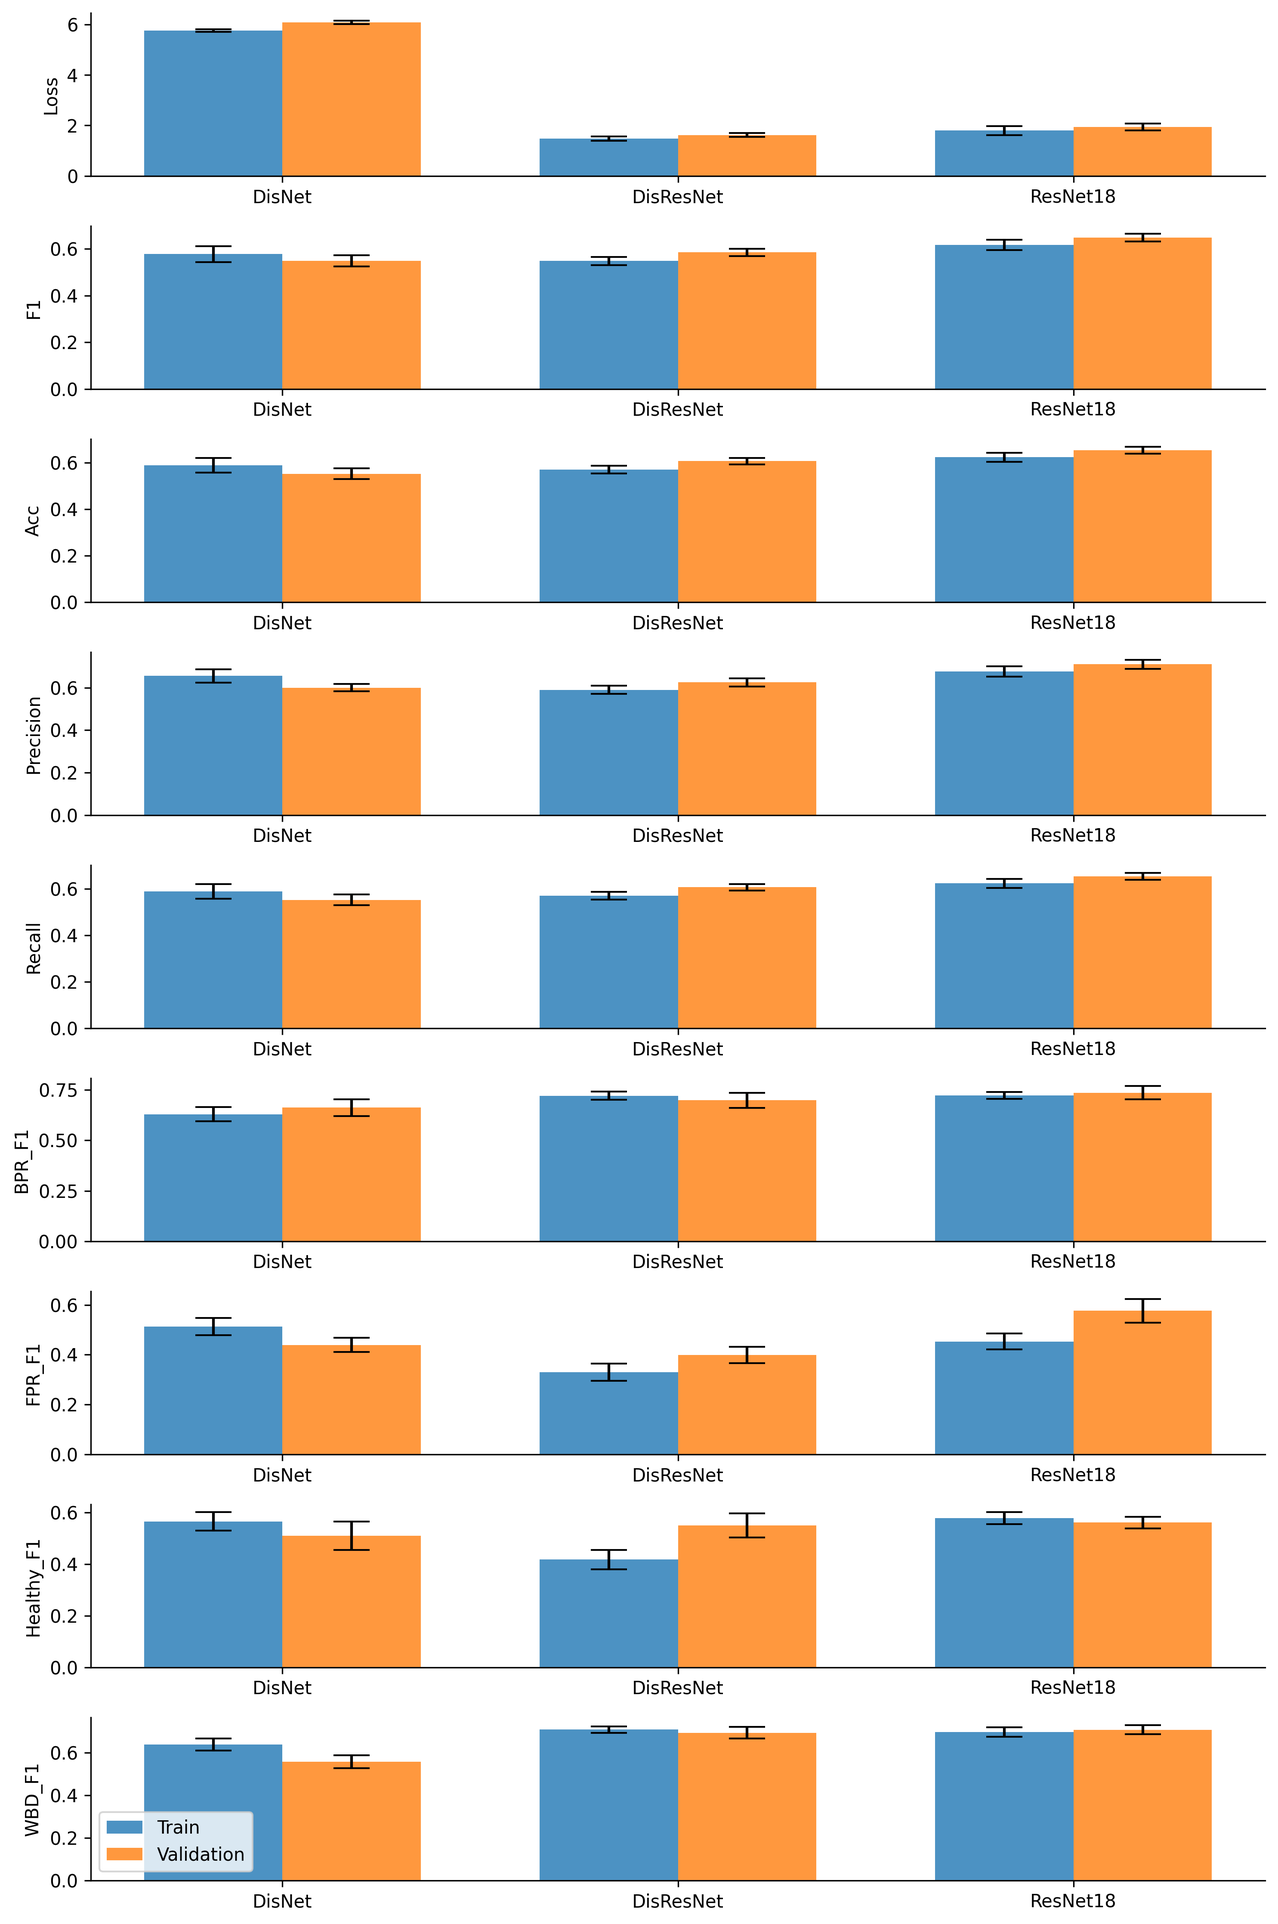
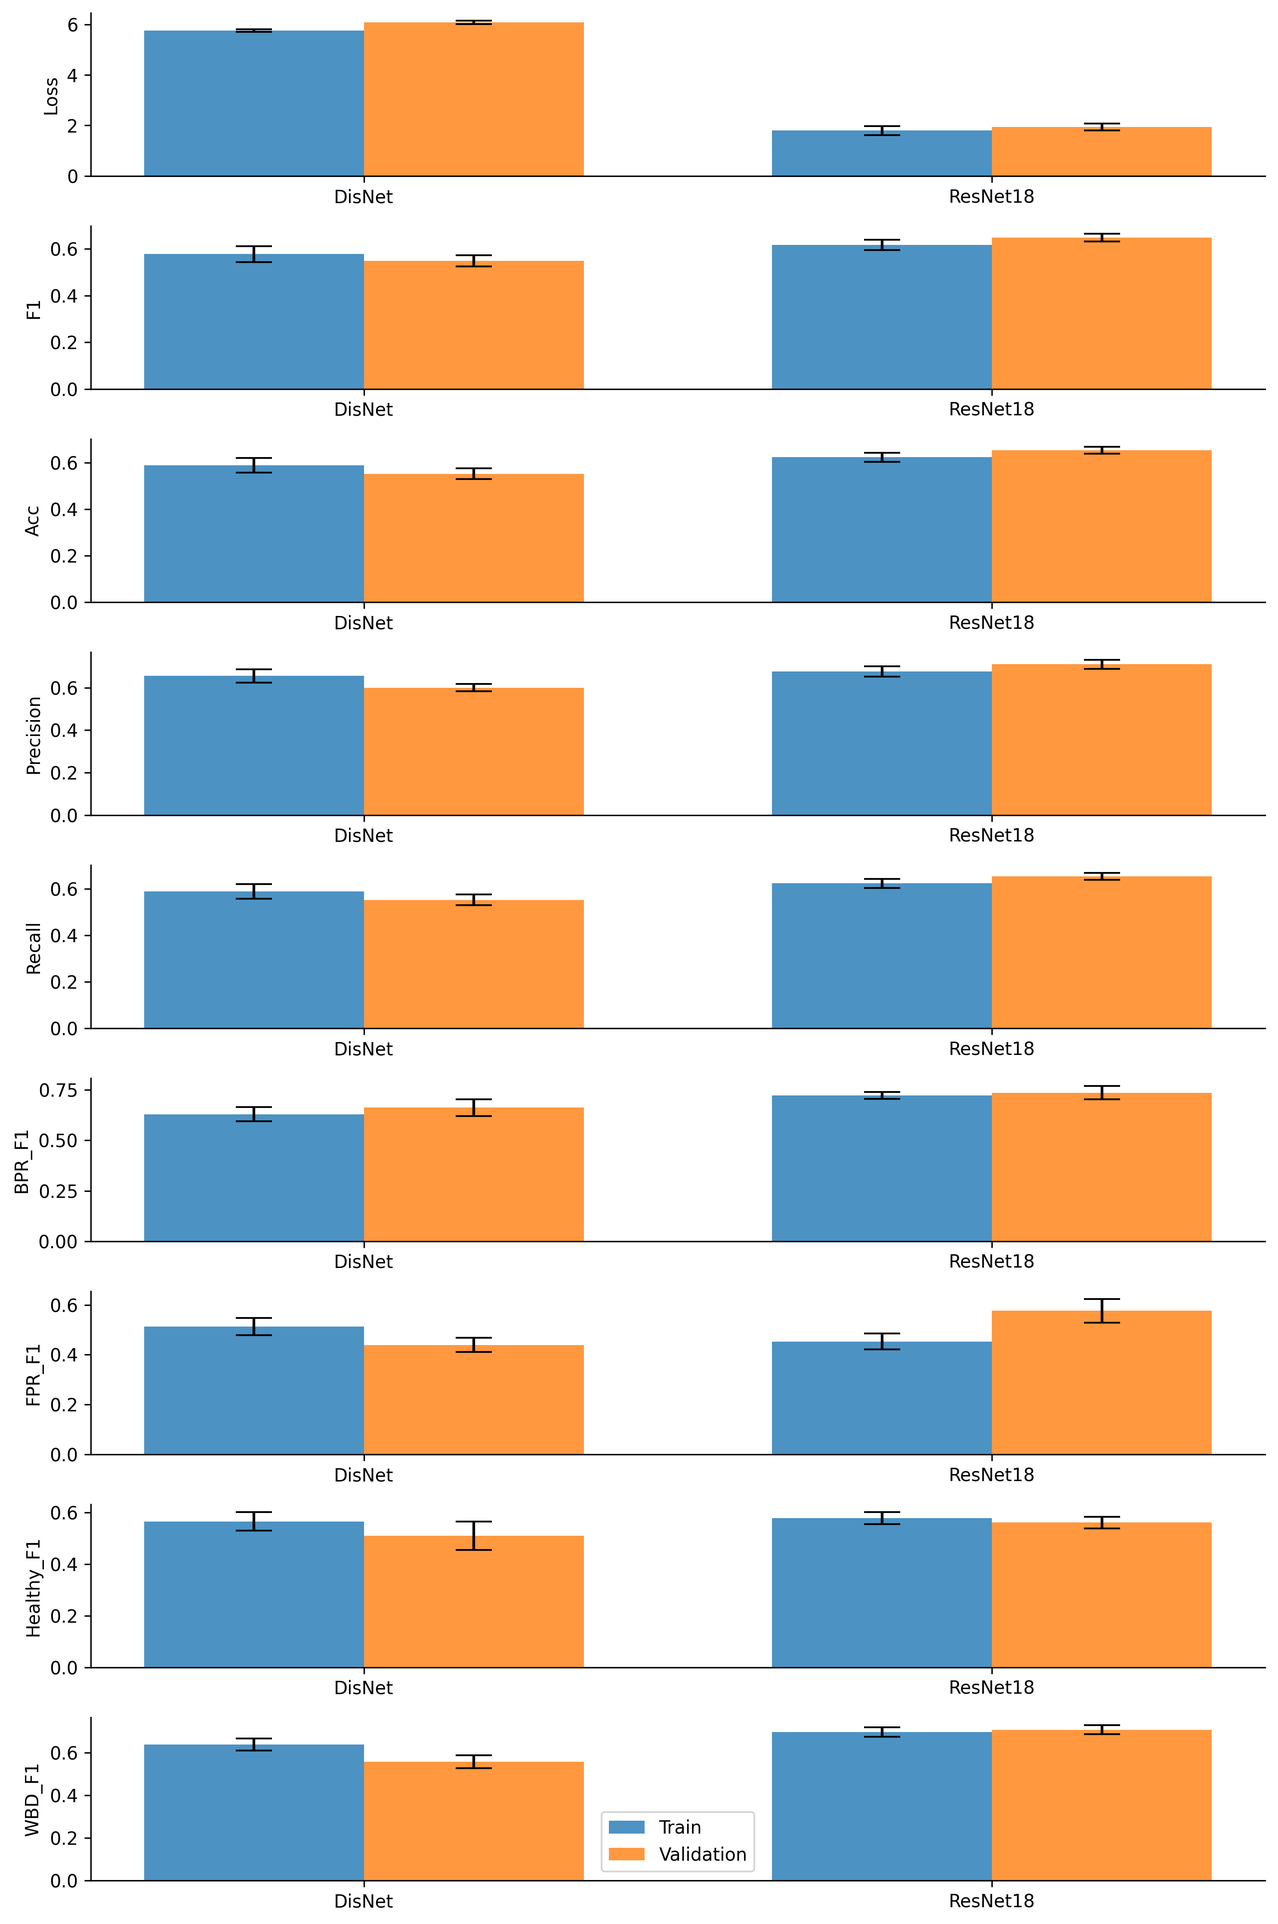
nightly update

diff --git a/CocoaNet/IR-RGB/cross-validation/cross-val_plot.py b/CocoaNet/IR-RGB/cross-validation/cross-val_plot.py
@@ -18,10 +18,10 @@ results = {
                          "train_se_metrics": {"Loss": 0.05284516768793222, "F1": 0.03459359004957016, "Acc": 0.03148602063532409, "Precision": 0.031009032165963856, "Recall": 0.03148602063532408, "BPR_F1": 0.035209504558448755, "FPR_F1": 0.03478881107332921, "Healthy_F1": 0.036149664873384973, "WBD_F1": 0.02849833577183997}, 
                          "val_se_metrics": {"Loss": 0.06626393861925348, "F1": 0.02430925917055632, "Acc": 0.02265348256027852, "Precision": 0.018025793210340323, "Recall": 0.02265348256027853, "BPR_F1": 0.0422703676317821, "FPR_F1": 0.028855992803753925, "Healthy_F1": 0.054584917678838794, "WBD_F1": 0.029962658594638446}},
            
-           "DisResNet": {"train_mean_metrics": {"Loss": 1.4825807547801386, "F1": 0.5482191262216578, "Acc": 0.5691779260468166, "Precision": 0.5901000052422195, "Recall": 0.5691779260468166, "BPR_F1": 0.7202813973297811, "FPR_F1": 0.3300081012133579, "Healthy_F1": 0.4171326177962225, "WBD_F1": 0.7096212908867781}, 
-                         "val_mean_metrics": {"Loss": 1.6188842267816903, "F1": 0.5851207588707588, "Acc": 0.6063695563695563, "Precision": 0.625000690447119, "Recall": 0.6063695563695564, "BPR_F1": 0.6977705859671803, "FPR_F1": 0.39900099900099895, "Healthy_F1": 0.5489743589743589, "WBD_F1": 0.694819494231259}, 
-                         "train_se_metrics": {"Loss": 0.08244988491556662, "F1": 0.017038047850870288, "Acc": 0.016613607421906023, "Precision": 0.019119766741262298, "Recall": 0.01661360742190602, "BPR_F1": 0.02004100815898391, "FPR_F1": 0.03441004651281485, "Healthy_F1": 0.03756870955354669, "WBD_F1": 0.014715165915305273}, 
-                         "val_se_metrics": {"Loss": 0.07633226545889607, "F1": 0.015312852059871472, "Acc": 0.013881661633135511, "Precision": 0.018908747819505457, "Recall": 0.013881661633135528, "BPR_F1": 0.03690677963604218, "FPR_F1": 0.032776063004960464, "Healthy_F1": 0.04656893118531147, "WBD_F1": 0.02735595704508639}},
+        #    "DisResNet": {"train_mean_metrics": {"Loss": 1.4825807547801386, "F1": 0.5482191262216578, "Acc": 0.5691779260468166, "Precision": 0.5901000052422195, "Recall": 0.5691779260468166, "BPR_F1": 0.7202813973297811, "FPR_F1": 0.3300081012133579, "Healthy_F1": 0.4171326177962225, "WBD_F1": 0.7096212908867781}, 
+        #                  "val_mean_metrics": {"Loss": 1.6188842267816903, "F1": 0.5851207588707588, "Acc": 0.6063695563695563, "Precision": 0.625000690447119, "Recall": 0.6063695563695564, "BPR_F1": 0.6977705859671803, "FPR_F1": 0.39900099900099895, "Healthy_F1": 0.5489743589743589, "WBD_F1": 0.694819494231259}, 
+        #                  "train_se_metrics": {"Loss": 0.08244988491556662, "F1": 0.017038047850870288, "Acc": 0.016613607421906023, "Precision": 0.019119766741262298, "Recall": 0.01661360742190602, "BPR_F1": 0.02004100815898391, "FPR_F1": 0.03441004651281485, "Healthy_F1": 0.03756870955354669, "WBD_F1": 0.014715165915305273}, 
+        #                  "val_se_metrics": {"Loss": 0.07633226545889607, "F1": 0.015312852059871472, "Acc": 0.013881661633135511, "Precision": 0.018908747819505457, "Recall": 0.013881661633135528, "BPR_F1": 0.03690677963604218, "FPR_F1": 0.032776063004960464, "Healthy_F1": 0.04656893118531147, "WBD_F1": 0.02735595704508639}},
             "ResNet18": {"train_mean_metrics": {"Loss": 1.795058268391226, "F1": 0.6172005746237982, "Acc": 0.6228601225619609, "Precision": 0.6764403341393723, "Recall": 0.622860122561961, "BPR_F1": 0.7217006134796367, "FPR_F1": 0.45293909215655725, "Healthy_F1": 0.5771030207250306, "WBD_F1": 0.6981829463527867}, 
                          "val_mean_metrics": {"Loss": 1.9390275902600371, "F1": 0.6485550831347355, "Acc": 0.6532153032153032, "Precision": 0.7101909994767137, "Recall": 0.6532153032153032, "BPR_F1": 0.7356065503124326, "FPR_F1": 0.5760139860139859, "Healthy_F1": 0.5604739704739703, "WBD_F1": 0.7087978619247969}, 
                          "train_se_metrics": {"Loss": 0.18667081037172442, "F1": 0.021661584022085536, "Acc": 0.019136368412923432, "Precision": 0.024007093581767017, "Recall": 0.019136368412923422, "BPR_F1": 0.01729918788361364, "FPR_F1": 0.03254700542377541, "Healthy_F1": 0.02317963311917654, "WBD_F1": 0.022614218346873636}, 
@@ -73,66 +73,56 @@ plt.show()
 #%%
 
 converted_results = {
-    "train": {
+    "Train": {
         "DisNet": {"Loss": 5.751327107954907, "F1": 0.5778870488498523, "Acc": 0.5891042096673547, "Precision": 0.6555103869427568, "Recall": 0.5891042096673547, "BPR_F1": 0.6283444389855397, "FPR_F1": 0.5128225913306519, "Healthy_F1": 0.5648154501580868, "WBD_F1": 0.6386317184655708},
-        "DisResNet": {"Loss": 1.4825807547801386, "F1": 0.5482191262216578, "Acc": 0.5691779260468166, "Precision": 0.5901000052422195, "Recall": 0.5691779260468166, "BPR_F1": 0.7202813973297811, "FPR_F1": 0.3300081012133579, "Healthy_F1": 0.4171326177962225, "WBD_F1": 0.7096212908867781},
         "ResNet18": {"Loss": 1.795058268391226, "F1": 0.6172005746237982, "Acc": 0.6228601225619609, "Precision": 0.6764403341393723, "Recall": 0.622860122561961, "BPR_F1": 0.7217006134796367, "FPR_F1": 0.45293909215655725, "Healthy_F1": 0.5771030207250306, "WBD_F1": 0.6981829463527867},
         "DisNet_se": {"Loss": 0.05284516768793222, "F1": 0.03459359004957016, "Acc": 0.03148602063532409, "Precision": 0.031009032165963856, "Recall": 0.03148602063532408, "BPR_F1": 0.035209504558448755, "FPR_F1": 0.03478881107332921, "Healthy_F1": 0.036149664873384973, "WBD_F1": 0.02849833577183997},
-        "DisResNet_se": {"Loss": 0.08244988491556662, "F1": 0.017038047850870288, "Acc": 0.016613607421906023, "Precision": 0.019119766741262298, "Recall": 0.01661360742190602, "BPR_F1": 0.02004100815898391, "FPR_F1": 0.03441004651281485, "Healthy_F1": 0.03756870955354669, "WBD_F1": 0.014715165915305273},
         "ResNet18_se": {"Loss": 0.18667081037172442, "F1": 0.021661584022085536, "Acc": 0.019136368412923432, "Precision": 0.024007093581767017, "Recall": 0.019136368412923422, "BPR_F1": 0.01729918788361364, "FPR_F1": 0.03254700542377541, "Healthy_F1": 0.02317963311917654, "WBD_F1": 0.022614218346873636},
     },
-    "val": {
+    "Val": {
         "DisNet": {"Loss": 6.0806663032270905, "F1": 0.5487692190386425, "Acc": 0.551984126984127, "Precision": 0.600510179855418, "Recall": 0.551984126984127, "BPR_F1": 0.6616135531135531, "FPR_F1": 0.4392507492507492, "Healthy_F1": 0.5093164515223338, "WBD_F1": 0.5587587850745745},
-        "DisResNet": {"Loss": 1.6188842267816903, "F1": 0.5851207588707588, "Acc": 0.6063695563695563, "Precision": 0.625000690447119, "Recall": 0.6063695563695564, "BPR_F1": 0.6977705859671803, "FPR_F1": 0.39900099900099895, "Healthy_F1": 0.5489743589743589, "WBD_F1": 0.694819494231259},
         "ResNet18": {"Loss": 1.9390275902600371, "F1": 0.6485550831347355, "Acc": 0.6532153032153032, "Precision": 0.7101909994767137, "Recall": 0.6532153032153032, "BPR_F1": 0.7356065503124326, "FPR_F1": 0.5760139860139859, "Healthy_F1": 0.5604739704739703, "WBD_F1": 0.7087978619247969},
         "DisNet_se": {"Loss": 0.06626393861925348, "F1": 0.02430925917055632, "Acc": 0.02265348256027852, "Precision": 0.018025793210340323, "Recall": 0.02265348256027853, "BPR_F1": 0.0422703676317821, "FPR_F1": 0.028855992803753925, "Healthy_F1": 0.054584917678838794, "WBD_F1": 0.029962658594638446},
-        "DisResNet_se": {"Loss": 0.07633226545889607, "F1": 0.015312852059871472, "Acc": 0.013881661633135511, "Precision": 0.018908747819505457, "Recall": 0.013881661633135528, "BPR_F1": 0.03690677963604218, "FPR_F1": 0.032776063004960464, "Healthy_F1": 0.04656893118531147, "WBD_F1": 0.02735595704508639},
         "ResNet18_se": {"Loss": 0.14386486198012813, "F1": 0.01639641870579217, "Acc": 0.014826507269436911, "Precision": 0.02110055555696848, "Recall": 0.014826507269436923, "BPR_F1": 0.0332269778172585, "FPR_F1": 0.04725257900397079, "Healthy_F1": 0.022457150752444643, "WBD_F1": 0.0215325750355198},
     },
 }
 
 # Metrics to plot
-metrics = list(converted_results["train"]["DisResNet"].keys())
+metrics = list(converted_results["Train"]["DisNet"].keys())
 #drop loss
 metrics.remove("Loss")
 
-# Create subplots
-# fig, axes = plt.subplots(1, 2, figsize=(15, 6))
 def plot_data(key):
     # Create figure
-    fig, ax = plt.subplots(figsize=(15, 6))
+    fig, ax = plt.subplots(figsize=(10, 6))
     
     # Extract data
     disnet_data = [converted_results[key]["DisNet"][metric] for metric in metrics]
-    disresnet_data = [converted_results[key]["DisResNet"][metric] for metric in metrics]
     ResNet18_data = [converted_results[key]["ResNet18"][metric] for metric in metrics]
     disnet_se = [converted_results[key]["DisNet_se"][metric] for metric in metrics]
-    disresnet_se = [converted_results[key]["DisResNet_se"][metric] for metric in metrics]
     ResNet18_se = [converted_results[key]["ResNet18_se"][metric] for metric in metrics]
     
     # X-axis positions
     x = np.arange(len(metrics))
     
-    # Bar width
-    width = 0.2
+    # Bar width (Reduced width for closer bars)
+    width = 0.3
     
-    # Calculate the positions for each bar
-    disnet_positions = x - width
-    disresnet_positions = x
-    ResNet18_positions = x + width
+    # Calculate the positions for each bar (Adjusted positions for closer bars)
+    disnet_positions = x - width*0.5
+    ResNet18_positions = x + width*0.5
     
     # Plot bars
-    ax.bar(disnet_positions, disnet_data, width, yerr=disnet_se, label='DisNet', color='black', capsize=10)  # Solid black color
-    ax.bar(disresnet_positions, disresnet_data, width, yerr=disresnet_se, label='DisResNet', color='white', edgecolor='black', hatch='//', capsize=10)
+    ax.bar(disnet_positions, disnet_data, width, yerr=disnet_se, label='DisNet', color='black', capsize=10)
     ax.bar(ResNet18_positions, ResNet18_data, width, yerr=ResNet18_se, label='ResNet18', color='white', edgecolor='black', capsize=10)
     
     # Labels
-    ax.set_ylabel('Value ±1 SE')
+    ax.set_ylabel(key +' metric value ±1 SE', fontsize=14)
     ax.set_xticks(x)
     ax.set_xticklabels(metrics, rotation=45)
     
     # Legend with larger fontsize
-    ax.legend(fontsize=18)
+    ax.legend(fontsize=18, loc='upper left', bbox_to_anchor=(0.65, 1))
 
     # Remove top and right spines
     ax.spines['right'].set_visible(False)
@@ -140,7 +130,7 @@ def plot_data(key):
     
     # Add multiple evenly spaced horizontal lines
     ymin, ymax = ax.get_ylim()
-    for y in np.linspace(ymin, ymax, 9):  # 9 evenly spaced lines
+    for y in np.linspace(ymin, 0.8, 9):
         ax.axhline(y, color='gray', linestyle='--', linewidth=0.5)
 
     # Save plot
@@ -152,9 +142,9 @@ def plot_data(key):
     plt.show()
 
 # Plot train data
-plot_data("train")
+plot_data("Train")
 # Plot val data
-plot_data("val")
+plot_data("Val")
 
 
 

diff --git a/CocoaNet/IR-RGB/Arch_Sweep/Torch_Custom_CNNs2.2.1.py b/CocoaNet/IR-RGB/Arch_Sweep/Torch_Custom_CNNs2.2.1.py
@@ -105,53 +105,55 @@ def train():
     device = torch.device("cuda:" + args.GPU)
 
     #define config dictionary with wandb
-    # config = {
-    #     'num_classes': 8,
-    #     'input_size': wandb.config.input_size,
-    #     'drop_out': wandb.config.drop_out,
-    #     'dim_1': wandb.config.dim_1, 
-    #     'dim_2': wandb.config.dim_2, 
-    #     'nodes_1': wandb.config.nodes_1, 
-    #     'nodes_2': wandb.config.nodes_2,
-    #     'kernel_1': wandb.config.kernel_1, 
-    #     'kernel_2': wandb.config.kernel_2,
-    #     'kernel_3': wandb.config.kernel_3, 
-    #     'kernel_4': wandb.config.kernel_4,
-    #     'kernel_5': wandb.config.kernel_5, 
-    #     'kernel_6': wandb.config.kernel_6,
-    # }
-    
     config = {
-            'num_classes': 8,
-            'drop_out': wandb.config.drop_out,
-            'drop_out2': wandb.config.drop_out2,
-            "dim_1": wandb.config.dim_1,
-            "dim_2": wandb.config.dim_2,
-            "input_size": wandb.config.input_size,
-            "kernel_1": wandb.config.kernel_1,
-            "kernel_2": wandb.config.kernel_2,
-            "kernel_3": wandb.config.kernel_3,
-            "kernel_4": wandb.config.kernel_4,
-            "kernel_5": wandb.config.kernel_5,
-            "kernel_6": wandb.config.kernel_6,
-            "nodes_1": wandb.config.nodes_1,
-            "nodes_2": wandb.config.nodes_2,
-            "nodes_3": wandb.config.nodes_3,
-            "nodes_4": wandb.config.nodes_4,
-            "trans_nodes": wandb.config.trans_nodes
-        }
+        'num_classes': 8,
+        'input_size': wandb.config.input_size,
+        'drop_out': wandb.config.drop_out,
+        'drop_out2': wandb.config.drop_out2,
+        'dim_1': wandb.config.dim_1, 
+        'dim_2': wandb.config.dim_2, 
+        'nodes_1': wandb.config.nodes_1, 
+        'nodes_2': wandb.config.nodes_2,
+        'kernel_1': wandb.config.kernel_1, 
+        'kernel_2': wandb.config.kernel_2,
+        'kernel_3': wandb.config.kernel_3, 
+        'kernel_4': wandb.config.kernel_4,
+        'kernel_5': wandb.config.kernel_5, 
+        'kernel_6': wandb.config.kernel_6,
+    }
+    
+    # config = {
+    #         'num_classes': 8,
+    #         'drop_out': wandb.config.drop_out,
+    #         'drop_out2': wandb.config.drop_out2,
+    #         "dim_1": wandb.config.dim_1,
+    #         "dim_2": wandb.config.dim_2,
+    #         "input_size": wandb.config.input_size,
+    #         "kernel_1": wandb.config.kernel_1,
+    #         "kernel_2": wandb.config.kernel_2,
+    #         "kernel_3": wandb.config.kernel_3,
+    #         "kernel_4": wandb.config.kernel_4,
+    #         "kernel_5": wandb.config.kernel_5,
+    #         "kernel_6": wandb.config.kernel_6,
+    #         "nodes_1": wandb.config.nodes_1,
+    #         "nodes_2": wandb.config.nodes_2,
+    #         "nodes_3": wandb.config.nodes_3,
+    #         "nodes_4": wandb.config.nodes_4,
+    #         "trans_nodes": wandb.config.trans_nodes
+    #     }
 
   
-    DisNet = toolbox.build_model(num_classes=config['trans_nodes'], arch='DisNet_picoIR', config=config)
-    SecondNet = toolbox.build_model(num_classes=config['trans_nodes'], arch='resnet18', config=None)
-    Meta = toolbox.build_model(num_classes=config['num_classes'], arch='Meta', config=config)
+    # DisNet = toolbox.build_model(num_classes=config['trans_nodes'], arch='DisNet_picoIR', config=config)
+    # SecondNet = toolbox.build_model(num_classes=config['trans_nodes'], arch='resnet18', config=None)
+    # Meta = toolbox.build_model(num_classes=config['num_classes'], arch='Meta', config=config)
     
-    config2 = {'CNN1': DisNet, 
-               'CNN2': SecondNet, 
-               'MetaModel': Meta}
+    # config2 = {'CNN1': DisNet, 
+    #            'CNN2': SecondNet, 
+    #            'MetaModel': Meta}
     
-    model = toolbox.build_model(num_classes=None, arch='Unified', config=config2).to(device)  
-    # model = toolbox.build_model(num_classes=config['num_classes'], arch=args.arch, config=config).to(device)
+    # model = toolbox.build_model(num_classes=None, arch='Unified', config=config2).to(device)  
+    
+    model = toolbox.build_model(num_classes=config['num_classes'], arch=args.arch, config=config).to(device)
   
     image_datasets = toolbox.build_datasets(data_dir=data_dir, input_size=wandb.config.input_size) #If images are pre compressed, use input_size=None, else use input_size=args.input_size
 
@@ -170,8 +172,8 @@ def train():
     print('GFLOPs: ', GFLOPs, 'n_params: ', n_params)
 
     if GFLOPs < 6 and n_params < 50000000:
-        model = toolbox.build_model(num_classes=None, arch='Unified', config=config2).to(device)   
-        # model = toolbox.build_model(num_classes=config['num_classes'], arch=args.arch, config=config).to(device)
+        # model = toolbox.build_model(num_classes=None, arch='Unified', config=config2).to(device)   
+        model = toolbox.build_model(num_classes=config['num_classes'], arch=args.arch, config=config).to(device)
 
         optimizer = torch.optim.AdamW(model.parameters(), lr=args.learning_rate,
                                         weight_decay=args.weight_decay, eps=args.eps)

diff --git a/utils/ArchitectureZoo.py b/utils/ArchitectureZoo.py
@@ -212,7 +212,7 @@ class DisNet_pico(nn.Module):
         return x
     
 
-class DisNet_picoIR(nn.Module):
+class DisNet(nn.Module):
 
     # config_dict = {
     #         "dim_1": 27,
@@ -232,7 +232,7 @@ class DisNet_picoIR(nn.Module):
 
 
     def __init__(self, out_channels, config=None):
-        super(DisNet_picoIR, self).__init__()
+        super(DisNet, self).__init__()
         self.config_dict = config
         
         self.conv1 = nn.Conv2d(in_channels=3, out_channels=self.config_dict['dim_1'], kernel_size=self.config_dict['kernel_1'], padding='same') 
@@ -245,10 +245,10 @@ class DisNet_picoIR(nn.Module):
         self.conv2 = nn.Conv2d(in_channels=self.config_dict['dim_1'], out_channels=self.config_dict['dim_2'], kernel_size=self.config_dict['kernel_2'], padding='same')
         nn.init.kaiming_normal_(self.conv2.weight, mode='fan_out', nonlinearity='relu')
         
-        self.cnblock2 = CNBlock_pico(dim=self.config_dict['dim_2'], kernel_3=self.config_dict['kernel_5'], kernel_4=self.config_dict['kernel_6'], dropout=self.config_dict['drop_out'])
+        self.cnblock2 = CNBlock_pico(dim=self.config_dict['dim_2'], kernel_3=self.config_dict['kernel_5'], kernel_4=self.config_dict['kernel_6'], dropout=self.config_dict['drop_out2'])
 
-        # self.fc1 = None
-        self.fc1 = nn.Linear(183600, self.config_dict['nodes_1'])
+        self.fc1 = None
+        # self.fc1 = nn.Linear(183600, self.config_dict['nodes_1'])
         
         self.fc2 = nn.Linear(self.config_dict['nodes_1'], self.config_dict['nodes_2'])
         nn.init.kaiming_normal_(self.fc2.weight, mode='fan_out', nonlinearity='relu')

diff --git a/utils/toolbox.py b/utils/toolbox.py
@@ -28,10 +28,10 @@ def build_model(num_classes, arch, config):
         model_ft = models.resnet50(weights=None)
         in_feat = model_ft.fc.in_features
         model_ft.fc = nn.Linear(in_feat, num_classes)
-    elif arch == 'DisNet_pico':
+    elif arch == 'DisNet':
         model_ft = DisNet_pico(out_channels=num_classes, config=config)
-    elif arch == 'DisNet_picoIR':
-        model_ft = DisNet_picoIR(out_channels=num_classes, config=config)
+    # elif arch == 'DisNet_picoIR':
+    #     model_ft = DisNet_picoIR(out_channels=num_classes, config=config)
     elif arch == 'efficientnetv2_s':
         model_ft = timm.create_model('tf_efficientnetv2_s', pretrained=False)
         num_ftrs = model_ft.classifier.in_features

diff --git a/scrap/test2.py b/scrap/test2.py
@@ -1,17 +1,18 @@
 #%%
-import torch.nn as nn
+from torchvision import datasets, transforms, models
 import torch
 
-criterion = nn.CrossEntropyLoss()
-
-#%%
-
-out = torch.tensor([[0, 0, 0, 10]], dtype=torch.float32)
-lable = torch.tensor([1], dtype=torch.float32)
-
-loss = criterion(out, lable)
-
-print(loss)
+model_ft = models.convnextv2_atto(weights = None)
 
 
 #%%
+device = torch.device("cuda:0" if torch.cuda.is_available() else "cpu")
+model_ft = model_ft.to(device)
+
+
+print(model_ft)
+
+
+#%%
+print('HELLO')
+# %%
